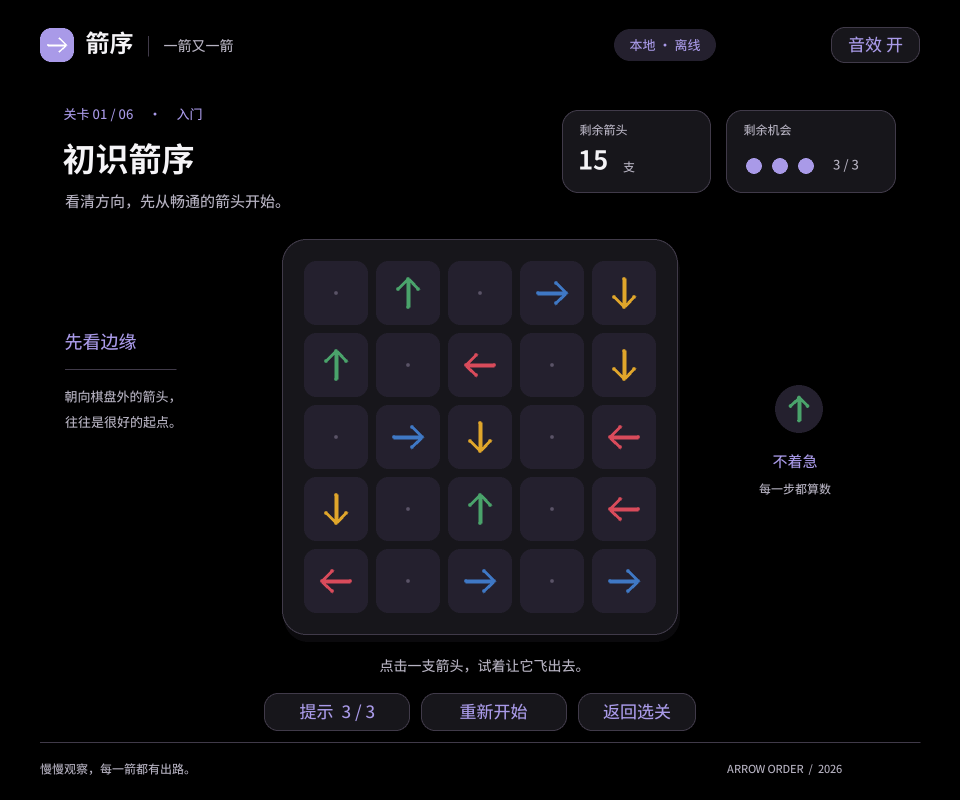
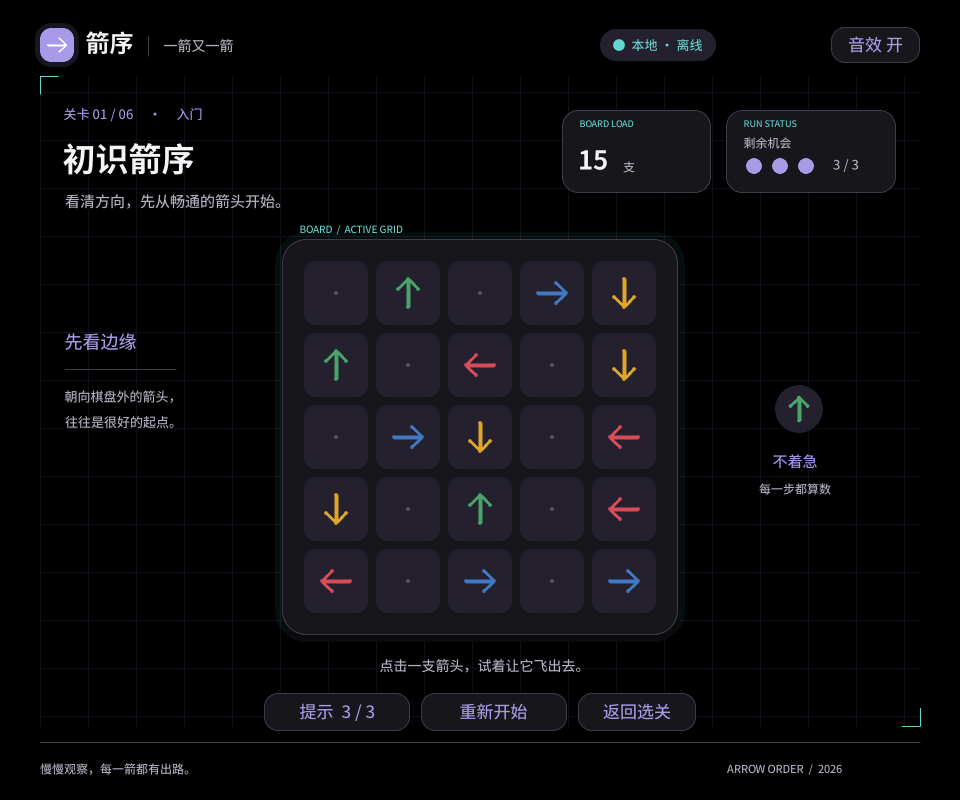
feat: upgrade game interface to advanced hud

diff --git a/arrowgame/preview_ui.py b/arrowgame/preview_ui.py
@@ -17,6 +17,9 @@ PANEL = "#17161B"
 INK = "#F5F4F7"
 MUTED = "#B7B3C2"
 ACCENT = "#A99AE8"
+CYAN = "#65D6D0"
+GOLD = "#F3C969"
+PINK = "#EF719D"
 PALE = "#24202E"
 LINE = "#403A49"
 WHITE = "#FFFFFF"
@@ -56,6 +59,35 @@ class Painter:
         pygame.draw.rect(self.canvas, fill, r, border_radius=radius * 2)
         if border:
             pygame.draw.rect(self.canvas, border, r, width * 2, border_radius=radius * 2)
+
+    def glow(self, rect, color=ACCENT, radius=16, alpha=24, spread=8):
+        """Add a quiet halo behind an important panel without changing its hitbox."""
+        x, y, w, h = rect
+        layer = pygame.Surface(self.canvas.get_size(), pygame.SRCALPHA)
+        glow_color = pygame.Color(color)
+        glow_color.a = alpha
+        pygame.draw.rect(layer, glow_color, self.rect_scaled((x-spread, y-spread, w+spread*2, h+spread*2)), border_radius=(radius+spread)*2)
+        self.canvas.blit(layer, (0, 0))
+
+    def background(self):
+        """Subtle HUD grid keeps the black theme dimensional and calm."""
+        for x in range(40, 921, 48):
+            self.line((x, 76), (x, 726), "#0D1117")
+        for y in range(92, 727, 48):
+            self.line((40, y), (920, y), "#0D1117")
+        for x, y, dx, dy in ((40, 76, 18, 0), (40, 76, 0, 18), (920, 726, -18, 0), (920, 726, 0, -18)):
+            self.line((x, y), (x + dx, y + dy), CYAN, 1)
+
+    def progress_bar(self, rect, value, color=CYAN, track=PALE):
+        x, y, w, h = rect
+        self.box(rect, track, radius=h // 2)
+        if value > 0:
+            self.box((x, y, max(h, w * max(0.0, min(1.0, value))), h), color, radius=h // 2)
+
+    def stat_chip(self, label, value, rect, color=ACCENT):
+        self.box(rect, PANEL, 12, LINE)
+        self.text(label.upper(), rect[0] + 12, rect[1] + 9, 9, MUTED)
+        self.text(value, rect[0] + 12, rect[1] + 24, 17, color)
 
     def line(self, a, b, color=LINE, width=1):
         pygame.draw.line(self.canvas, color, (a[0] * 2, a[1] * 2), (b[0] * 2, b[1] * 2), width * 2)
@@ -121,12 +153,13 @@ class Painter:
             self.buttons.append(Button(label, pygame.Rect(rect), target))
 
     def header(self):
+        self.glow((40, 28, 34, 34), ACCENT, 11, 35, 5)
         self.box((40, 28, 34, 34), ACCENT, 11)
         self.arrow((57, 45), "R", 18, WHITE, 2)
         self.text("箭序", 86, 31, 24)
         self.line((148, 36), (148, 56))
         self.text("一箭又一箭", 164, 39, 14, MUTED)
-        self.pill("本地 · 离线", (614, 29, 102, 32))
+        self.pill("●  本地 · 离线", (600, 29, 116, 32), PALE, CYAN)
         self.button("音效 开", (831, 27, 89, 36), "mute")
 
     def footer(self):
@@ -138,6 +171,7 @@ class Painter:
         n = len(rows)
         pad = 18
         extent = cell * n
+        self.glow((x - pad, y - pad, extent + pad * 2, extent + pad * 2), CYAN, 24, 16, 7)
         self.box((x - pad + 2, y - pad + 7, extent + pad * 2, extent + pad * 2), "#0B0A0D", 24)
         self.box((x - pad, y - pad, extent + pad * 2, extent + pad * 2), PANEL, 24, LINE)
         for row, values in enumerate(rows):
@@ -157,17 +191,21 @@ class Painter:
                     self.circle((tx + cell / 2, ty + cell / 2), 2, "#5A5367")
 
     def home(self):
+        self.pill("PUZZLE SYSTEM  /  READY", (76, 112, 184, 27), "#101A1D", CYAN, 11)
         self.text("A LITTLE ORDER. A LITTLE JOY.", 76, 153, 12, ACCENT)
         self.text("一箭又一箭", 72, 195, 57)
         self.text("让每一箭，找到自己的出口。", 77, 290, 22, ACCENT)
         self.text("沿着方向，解开阻挡。", 78, 343, 17, MUTED)
         self.text("六段小小挑战，留一点时间给思考。", 78, 375, 17, MUTED)
+        self.glow((76, 431, 208, 54), ACCENT, 14, 28, 5)
         self.button("开始游戏   →", (76, 431, 208, 54), "game", True)
         self.button("选择关卡", (299, 431, 136, 54), "levels")
         self.pill("6 个关卡", (78, 509, 91, 28), size=12)
         self.pill("3 次机会", (181, 509, 91, 28), size=12)
         self.pill("一点提示", (284, 509, 91, 28), size=12)
         self.board(552, 192, 59, highlight=(0, 1))
+        self.text("LIVE BOARD", 552, 173, 10, CYAN)
+        self.text("5 × 5  /  15 ARROWS", 689, 173, 10, MUTED)
         self.pill("从一支畅通的箭头开始", (581, 520, 231, 34), "#382B18", ORANGE)
         cards = (("01", "观察方向", "箭头只能沿自身方向飞出。"), ("02", "解除阻挡", "先送走挡在前面的箭头。"), ("03", "清空棋盘", "用三次机会，找到通关顺序。"))
         for i, (num, title, body) in enumerate(cards):
@@ -186,16 +224,18 @@ class Painter:
         self.text("最后之序" if variant == "complete" else "初识箭序", 63, 143, 33)
         self.text("看清方向，先从畅通的箭头开始。", 65, 194, 15, MUTED)
         self.box((562, 110, 149, 83), PANEL, 16, LINE)
-        self.text("剩余箭头", 580, 124, 12, MUTED)
+        self.text("BOARD LOAD", 580, 120, 9, CYAN)
         self.text(str(sum(ch != "." for row in rows for ch in row)), 580, 150, 26)
         self.text("支", 623, 161, 12, MUTED)
         self.box((726, 110, 170, 83), PANEL, 16, LINE)
-        self.text("剩余机会", 744, 124, 12, MUTED)
+        self.text("RUN STATUS", 744, 120, 9, CYAN)
+        self.text("剩余机会", 744, 137, 12, MUTED)
         for i in range(3):
             self.circle((754 + i * 26, 166), 8, "#45414A" if i >= mistakes else "#A99AE8")
         self.text(f"{mistakes} / 3", 833, 159, 13, MUTED)
         highlight = (0, 3) if variant == "collision" else (0, 1) if variant == "hint" else None
         self.board(300, 257, 360 / len(rows), rows=rows, highlight=highlight, collision=variant == "collision")
+        self.text("BOARD  /  ACTIVE GRID", 300, 225, 10, CYAN)
         self.text("先看边缘", 65, 333, 18, ACCENT)
         self.line((65, 369), (176, 369))
         self.text("朝向棋盘外的箭头，", 65, 390, 13, MUTED)
@@ -216,6 +256,7 @@ class Painter:
         self.button("返回选关", (578, 693, 118, 38), "levels")
 
     def levels(self):
+        self.pill("MISSION SELECT", (64, 94, 142, 27), "#101A1D", CYAN, 11)
         self.text("一点点，解开所有方向。", 64, 127, 34)
         self.text("六个关卡 · 循序渐进 · 已通关的关卡可以随时重玩", 65, 186, 15, MUTED)
         names = ("初识箭序", "留意空隙", "交错之间", "逐一解锁", "四向交织", "最后之序")
@@ -227,6 +268,9 @@ class Painter:
             self.pill("已完成" if i == 0 else "可挑战" if i == 1 else "待解锁", (x + 164, y + 24, 80, 28), PALE, ACCENT if unlocked else MUTED, 12)
             self.text(name, x + 23, y + 80, 22, INK if unlocked else MUTED)
             self.text(f"{('入门', '进阶', '挑战')[i // 2]}   ·   {5 + i // 2} × {5 + i // 2}", x + 24, y + 118, 13, MUTED)
+            difficulty = min(5, 2 + i // 2)
+            for dot in range(5):
+                self.circle((x + 25 + dot * 13, y + 145), 3, GOLD if dot < difficulty else "#343139")
             self.text("最佳：0 失误 · 1 提示" if i == 0 else "准备好了吗？" if i == 1 else f"完成第 {i} 关后解锁", x + 24, y + 151, 12, ACCENT if unlocked else MUTED)
             if unlocked:
                 self.buttons.append(Button(name, pygame.Rect(x, y, 266, 187), "game"))
@@ -266,6 +310,7 @@ class Painter:
         if scene not in SCENES:
             raise ValueError(f"Unknown scene: {scene}")
         self.canvas.fill(BG)
+        self.background()
         self.buttons.clear()
         self.text_bounds.clear()
         self.header()

diff --git a/game.py b/game.py
@@ -19,7 +19,7 @@ import pygame
 
 from arrowgame.levels import LEVELS
 from arrowgame.effects import DangerVignette, HEARTBEAT_PERIOD, HEARTBEAT_PULSES
-from arrowgame.preview_ui import Painter, BG, PANEL, INK, MUTED, ACCENT, PALE, LINE, WHITE, ORANGE, RED, DIRECTION_COLORS
+from arrowgame.preview_ui import Painter, BG, PANEL, INK, MUTED, ACCENT, CYAN, GOLD, PALE, LINE, WHITE, ORANGE, RED, DIRECTION_COLORS
 from arrowgame.rules import can_exit, first_blocker, solve_order
 from arrowgame.scoring import LevelTimer, award_stars, better_record, clean_record, format_time
 from arrowgame.endless import generate_level
@@ -324,11 +324,13 @@ class Game:
 
     def draw_home(self):
         p = self.painter
+        p.pill("PUZZLE SYSTEM  /  READY", (76, 112, 184, 27), "#101A1D", CYAN, 11)
         p.text("A LITTLE ORDER. A LITTLE JOY.", 76, 153, 12, ACCENT)
         p.text("一箭又一箭", 72, 195, 57)
         p.text("让每一箭，找到自己的出口。", 77, 290, 22, ACCENT)
         p.text("沿着方向，解开阻挡。", 78, 343, 17, MUTED)
         p.text("六段小小挑战，留一点时间给思考。", 78, 375, 17, MUTED)
+        p.glow((76, 431, 208, 54), ACCENT, 14, 28, 5)
         self.button("开始游戏   →", (76, 431, 208, 54), "start", True)
         self.button("选择关卡", (299, 431, 136, 54), "levels")
         self.button("无尽模式   →", (76, 548, 208, 38), "endless")
@@ -342,6 +344,8 @@ class Game:
         p.pill("3 次机会", (181, 509, 91, 28), size=12)
         p.pill("3 次提示", (284, 509, 91, 28), size=12)
         p.board(552, 192, 59, highlight=(0, 1))
+        p.text("LIVE BOARD", 552, 173, 10, CYAN)
+        p.text("5 × 5  /  15 ARROWS", 689, 173, 10, MUTED)
         p.pill("从一支畅通的箭头开始", (581, 520, 231, 34), "#382B18", ORANGE)
         cards = (("01", "观察方向", "箭头只能沿自身方向飞出。"), ("02", "解除阻挡", "先送走挡在前面的箭头。"), ("03", "清空棋盘", "用三次机会，找到通关顺序。"))
         for i, (num, title, body) in enumerate(cards):
@@ -355,6 +359,7 @@ class Game:
 
     def draw_levels(self):
         p = self.painter
+        p.pill("MISSION SELECT", (64, 94, 142, 27), "#101A1D", CYAN, 11)
         p.text("一点点，解开所有方向。", 64, 127, 34)
         p.text("六个关卡 · 循序渐进 · 已通关的关卡可以随时重玩", 65, 186, 15, MUTED)
         for i, level in enumerate(LEVELS):
@@ -366,6 +371,9 @@ class Game:
             p.pill("已完成" if completed else "可挑战" if unlocked else "待解锁", (x + 164, y + 24, 80, 28), PALE, ACCENT if unlocked else MUTED, 12)
             p.text(level.name, x + 23, y + 80, 22, INK if unlocked else MUTED)
             p.text(f"{level.difficulty}   ·   {len(level.rows)} × {len(level.rows)}", x + 24, y + 118, 13, MUTED)
+            difficulty = min(5, 2 + i // 2)
+            for dot in range(5):
+                p.circle((x + 25 + dot * 13, y + 145), 3, GOLD if dot < difficulty else "#343139")
             record = self.best.get(str(i))
             if record and 'stars' in record:
                 self.draw_stars(record['stars'], x+56, y+163, 9, 24)
@@ -399,6 +407,7 @@ class Game:
             p.circle((754 + i * 26, 166), 8, "#45414A" if i >= self.mistakes else "#A99AE8")
         p.text(f"{self.mistakes} / 3", 833, 159, 13, MUTED)
         p.box((64, 253, 180, 148), PANEL, 16, LINE)
+        p.text("RUN TELEMETRY", 82, 263, 9, CYAN)
         p.text("本关用时", 82, 273, 13, MUTED)
         p.text(format_time(self.timer.elapsed_ms()), 81, 303, 28, ACCENT)
         if self.mode == 'endless':
@@ -420,6 +429,10 @@ class Game:
         if self.animation and self.animation["kind"] == "fly":
             rows[self.animation["row"]][self.animation["col"]] = "."
         p.board(x, y, cell, rows=rows, highlight=None)
+        p.text("BOARD  /  ACTIVE GRID", x, 225, 10, CYAN)
+        remaining = self.count_arrows()
+        total = max(1, self.current_level.arrows)
+        p.progress_bar((562, 199, 334, 7), remaining / total, CYAN)
         highlight_color = ORANGE if self.hint_active else DIRECTION_COLORS.get(self.board[highlight[0]][highlight[1]], ACCENT) if highlight else ACCENT
         for position, color in ((highlight, highlight_color),):
             if position and self.board[position[0]][position[1]] != "." and not self.animation:
@@ -632,7 +645,7 @@ class Game:
         self.button("新一轮无尽" if self.mode == 'endless' else "返回选关", (487, 557, 186, 34), "endless" if self.mode == 'endless' else "levels")
 
     def render(self):
-        self.painter.canvas.fill(BG); self.painter.buttons.clear(); self.painter.text_bounds.clear(); self.regions.clear(); self.draw_header_footer()
+        self.painter.canvas.fill(BG); self.painter.background(); self.painter.buttons.clear(); self.painter.text_bounds.clear(); self.regions.clear(); self.draw_header_footer()
         if self.scene == "home": self.draw_home()
         elif self.scene == "levels": self.draw_levels()
         elif self.scene == "playing": self.draw_playing()

diff --git a/docs/DEVELOPMENT.md b/docs/DEVELOPMENT.md
@@ -115,3 +115,9 @@
 - 2026-09-15 使用已登录的 `ddxww` 账号创建公开仓库：<https://github.com/ddxww/arrow-order>。
 - 已推送三笔有意义的提交：界面预览、Windows 预览打包、六关完整玩法。通过 GitHub API 核验仓库公开、默认分支为 `master`，远程提交信息与本地一致。
 - `dist/` 因包含本地构建产物而被 `.gitignore` 排除；源码、资源、文档、测试和打包脚本均已上传。EXE 可从本地 `dist/ArrowOrder-Windows.zip` 领取，后续如需要可作为 GitHub Release 附件发布。
+
+## 11. 高级 UI 更新
+
+- 2026-09-16 根据用户要求在原有可玩版上升级界面，保留纯黑背景和与参考项目不同的配色。
+- 新增细网格 HUD 背景、状态芯片、棋盘负载进度条、任务选择标识、关卡难度刻度和通关报告层。
+- 预览导出共8个画面，文本越界检查通过；可玩版重新打包为 `dist/ArrowOrder.exe`。

diff --git a/docs/BLOG_DRAFT.md b/docs/BLOG_DRAFT.md
@@ -12,7 +12,7 @@
 
 我把游戏命名为《一箭又一箭·箭序》。项目使用 Python 3.13 和 pygame-ce 2.5.8 开发，默认窗口大小为 960×800，也支持按窗口大小缩放。游戏可以直接运行源码，也已经打包为 Windows EXE。
 
-界面没有沿用参考项目的浅绿色方案，而是使用纯黑背景、深灰面板、浅紫主色、暖金色提示和亮莓红色碰撞反馈。棋盘、箭头和按钮都由 Pygame 绘制，中文字体随项目一同分发。
+界面没有沿用参考项目的浅绿色方案，而是使用纯黑背景、深灰面板、浅紫主色、暖金色提示和亮莓红色碰撞反馈。后续在原有界面上加入了黑色高级 HUD 视觉：细网格背景、实时状态芯片、棋盘负载进度条、任务选择难度刻度和通关报告层。棋盘、箭头和按钮都由 Pygame 绘制，中文字体随项目一同分发。
 
 ### 1. 开始界面
 

diff --git a/README.md b/README.md
@@ -12,6 +12,7 @@
 - 无尽模式：随机生成可解棋盘，难度参考普通关卡 1～6，不评价星级。
 - 无尽模式累计通关 3 次后显示特殊 CG，包括用户提供的图片、GIF 和活动文案。
 - 首页右侧提供放大的 GitHub 图标按钮，点击后打开项目主页：<https://github.com/ddxww/arrow-order>。
+- 黑色高级 HUD 界面：细网格背景、实时状态芯片、棋盘负载进度条、任务选择难度刻度和通关报告层。
 
 ## Windows 运行
 
